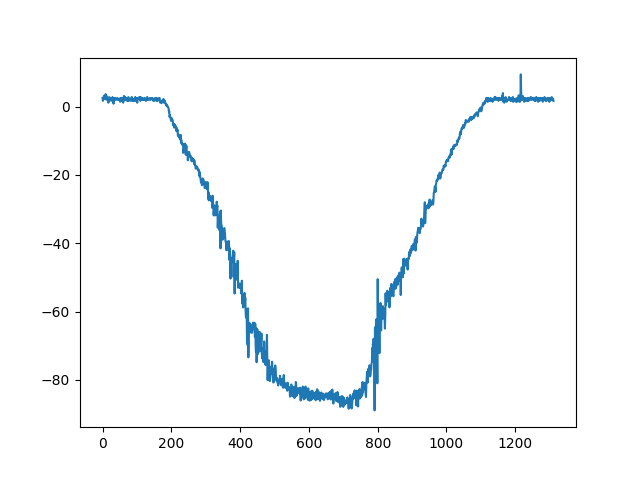
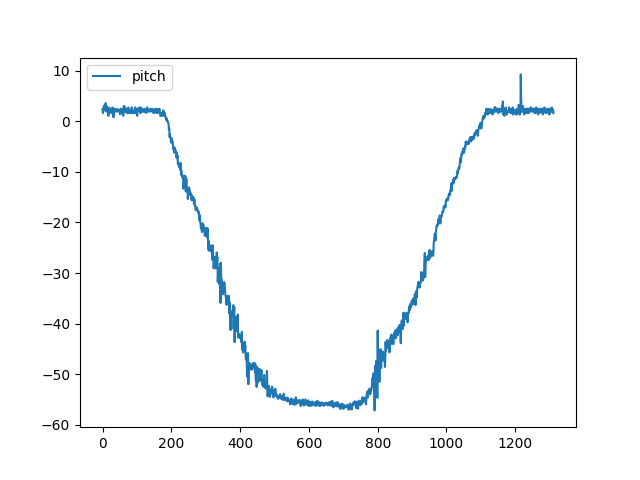
Three first excersises.

diff --git a/Lecture5/plot_pitch_angle.py b/Lecture5/plot_pitch_angle.py
@@ -1,23 +1,74 @@
 #!/usr/bin/python2
 from Modules.imu_exercise import plot_accel
 from math import pi, sqrt, atan2
-def plot_func(**kwargs):
+def plot_pitch_func(**kwargs):
+    #compute the variable
+    plotdata = kwargs["plotdata"]
+    pitch = atan2(kwargs["acc_y"], ( (kwargs["acc_x"] ** 2 + kwargs["acc_z"] ** 2) ** 0.5))
+    pitch *= 180/pi
 
-        roll = atan2(-kwargs["acc_x"],kwargs["acc_z"])
-        pitch = kwargs["acc_y"]/( (kwargs["acc_x"] ** 2 + kwargs["acc_z"] ** 2) ** 0.5)
-        return pitch
+    #Add the variable to plotdata. If it does not exist yet, simply create it in the dict
+    try:
+        plotdata["series"][0]["data"].append(pitch)
+    except:
+        plotdata["series"] = []
+        plotdata["series"].append({"data" : [], "label" : "pitch"})
+        plotdata["series"][0]["data"].append(pitch)
+
+def plot_roll_func(**kwargs):
+    #compute the variable
+    plotdata = kwargs["plotdata"]
+    roll = atan2(-kwargs["acc_x"],kwargs["acc_z"])
+    roll *= 180/pi
+
+    #Add the variable to plotdata. If it does not exist yet, simply create it in the dict
+    try:
+        plotdata["series"][0]["data"].append(roll)
+    except:
+        plotdata["series"] = []
+        plotdata["series"].append({"data" : [], "label" : "roll"})
+        plotdata["series"][0]["data"].append(roll)
+
+def plot_static_func(**kwargs):
+    #compute the variable
+    plotdata = kwargs["plotdata"]
+    roll = atan2(-kwargs["acc_x"],kwargs["acc_z"])
+    roll *= 180/pi
+    pitch = atan2(kwargs["acc_y"], ( (kwargs["acc_x"] ** 2 + kwargs["acc_z"] ** 2) ** 0.5))
+    pitch *= 180/pi
+
+
+    #Add the variable to plotdata. If it does not exist yet, simply create it in the dict
+    try:
+        plotdata["series"][0]["data"].append(roll)
+        plotdata["series"][1]["data"].append(pitch)
+
+    except:
+        plotdata["series"] = []
+        plotdata["series"].append({"data" : [], "label" : "roll"})
+        plotdata["series"].append({"data" : [], "label" : "pitch"})
+        plotdata["series"][0]["data"].append(roll)
+        plotdata["series"][1]["data"].append(pitch)
+
 
 def __main__():
     ## Uncomment the file to read ##
     #fileName = 'nmea_data.txt'
     #fileName = 'imu_razor_data_static.txt'
     #fileName = 'imu_razor_data_yaw_90deg.txt'
-    fileName = 'imu_razor_data_pitch_45deg.txt'
-    #fileName = 'imu_razor_data_roll_45deg.txt'
 
-    ## IMU type
-    #imuType = 'vectornav_vn100'
+    #Plot the pitch data
+    fileName = 'imu_razor_data_pitch_45deg.txt'
     imuType = 'sparkfun_razor'
-    plot_accel(imuType, fileName, plot_func)
+    plot_accel(imuType, fileName, plot_pitch_func)
+    #plot the roll data
+    fileName = 'imu_razor_data_roll_45deg.txt'
+    imuType = 'sparkfun_razor'
+    plot_accel(imuType, fileName, plot_roll_func)
+    #plot the static data
+    fileName = 'imu_razor_data_static.txt'
+    imuType = 'sparkfun_razor'
+    plot_accel(imuType, fileName, plot_static_func)
+
 
 __main__()

diff --git a/Lecture5/Modules/imu_exercise.py b/Lecture5/Modules/imu_exercise.py
@@ -21,6 +21,7 @@ def plot_accel(imuType, fileName, plot_func, showplot = True, saveplot = True):
     ## Variables for plotting ##
     showPlot = True
     plotData = []
+    plotdata = {}
     # open the imu data file
     f = open (fileName, "r")
 
@@ -76,10 +77,10 @@ def plot_accel(imuType, fileName, plot_func, showplot = True, saveplot = True):
         ## Insert your code here ##
 
 
-        plotvar = plot_func(acc_x =acc_x, acc_y = acc_y, acc_z = acc_z
-            , gyro_x = gyro_x, gyro_y = gyro_y, gyro_z = gyro_z)
+        plot_func(acc_x = acc_x, acc_y = acc_y, acc_z = acc_z
+            , gyro_x = gyro_x, gyro_y = gyro_y, gyro_z = gyro_z, plotdata = plotdata)
         # in order to show a plot use this function to append your value to a list:
-        plotData.append (plotvar*180.0/pi)
+        #plotData.append (plotvar*180.0/pi)
 
         ######################################################
 
@@ -88,7 +89,10 @@ def plot_accel(imuType, fileName, plot_func, showplot = True, saveplot = True):
 
     # show the plot
     if showPlot == True:
-        plt.plot(plotData)
+        #plt.plot(plotData)
+        for series in plotdata["series"]:
+            plt.plot(series["data"], label=series["label"])
+        plt.legend()
         if(saveplot):
             plt.savefig(fileName + ".png")
         if(showplot):
